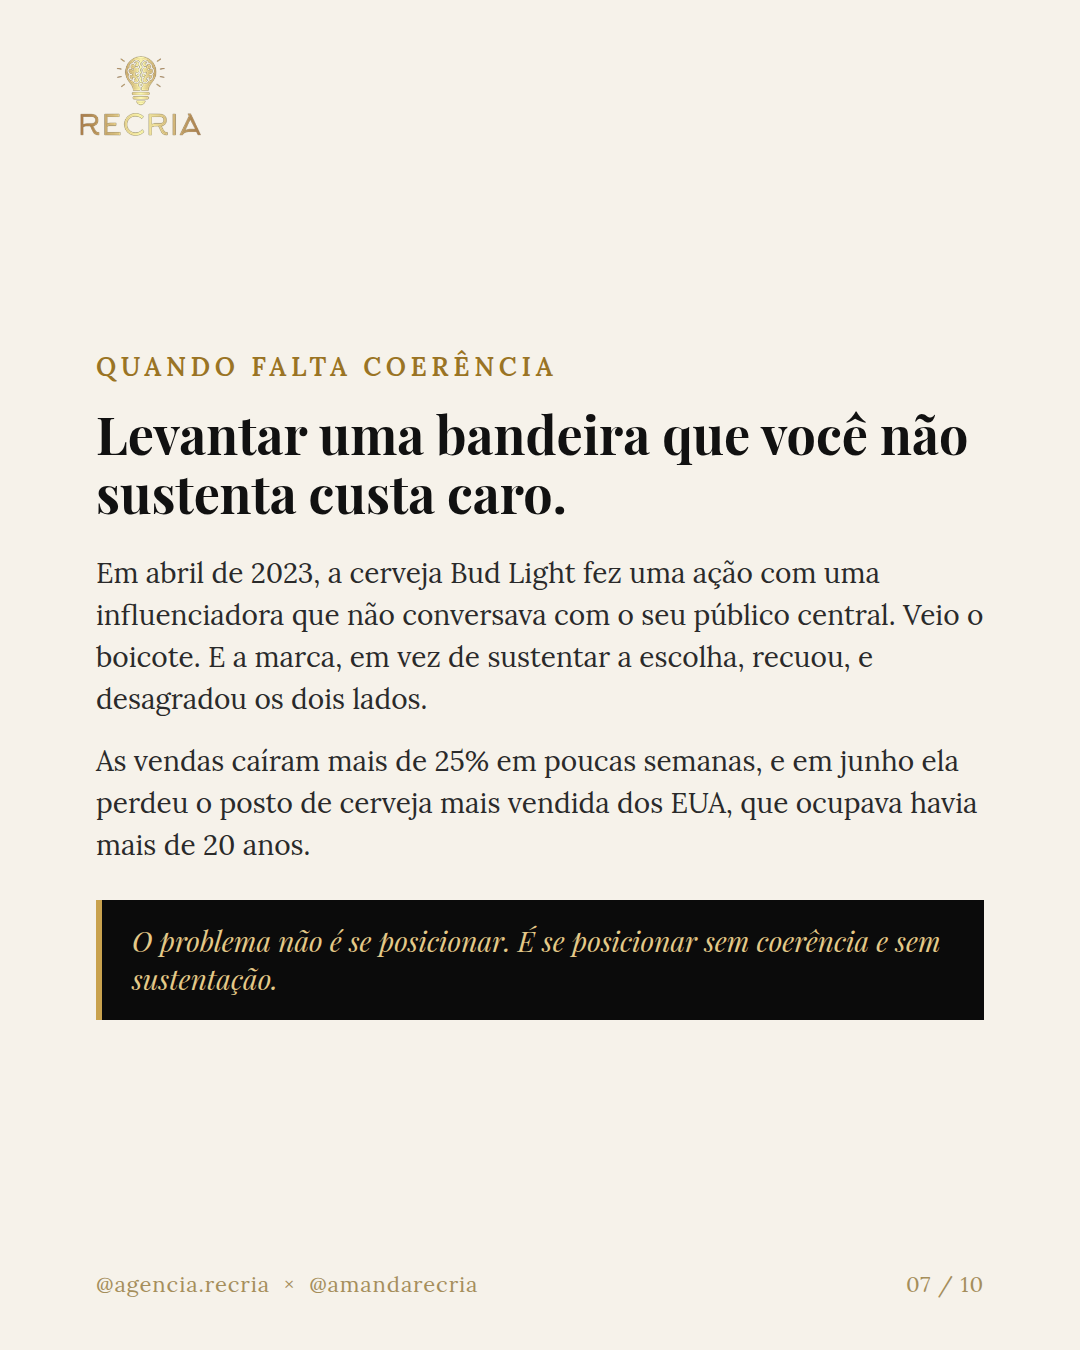
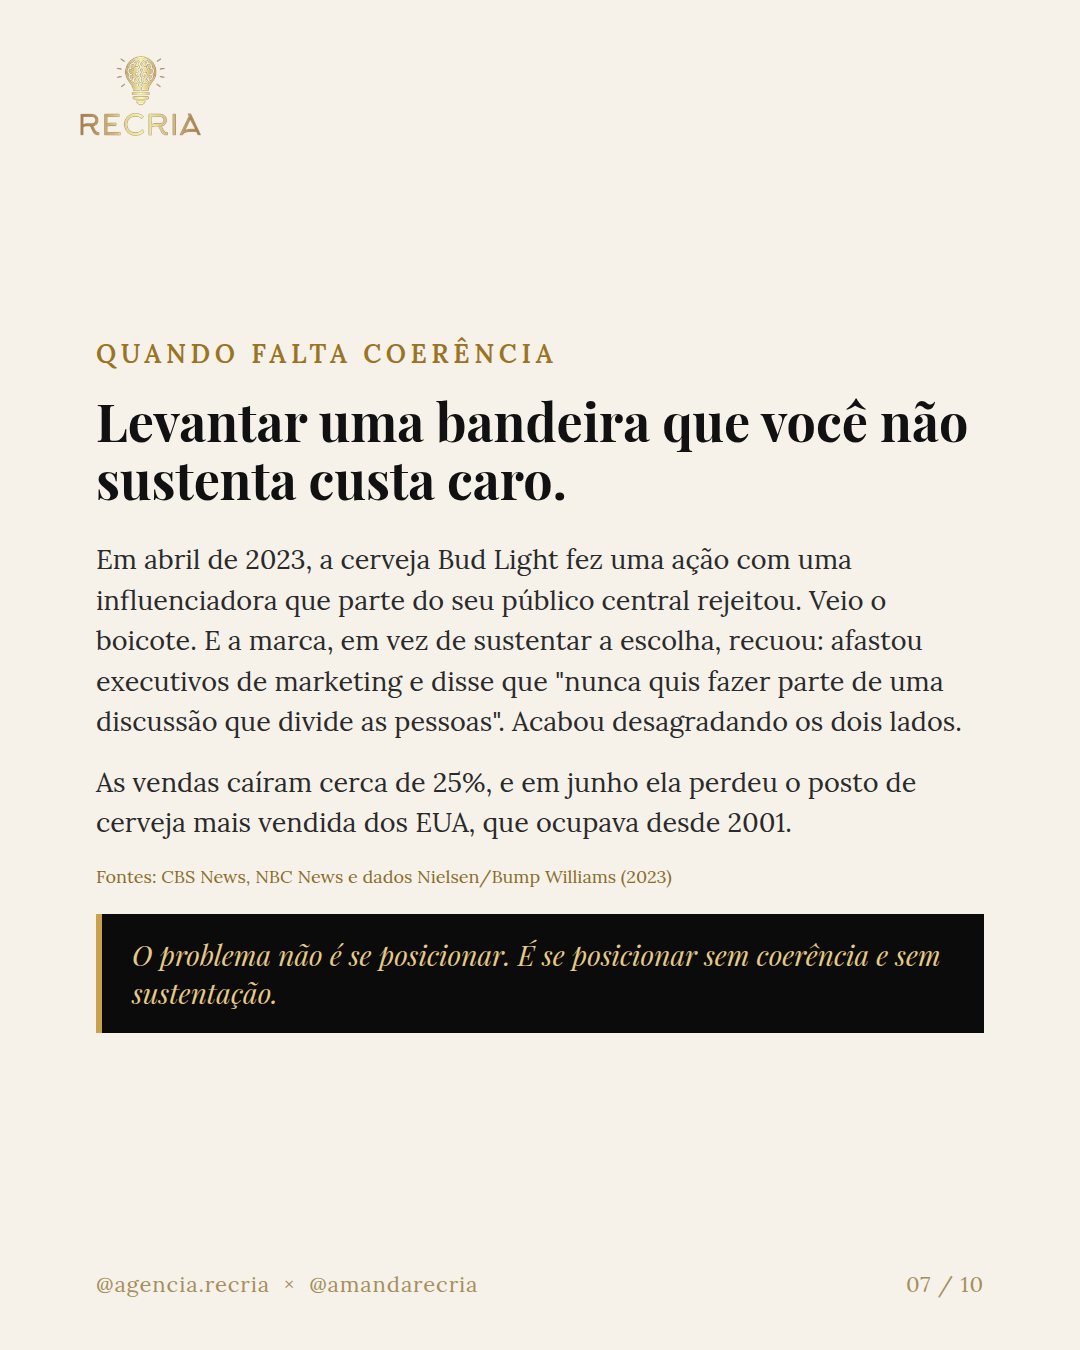
Carrossel 28/10: card 7 (Bud Light) com dados verificados e fontes
Claude-Session: https://claude.ai/code/session_01RDM8d5cVD9w4uwiMSyLkgt

Changed region(s): [[0.0917, 0.2489, 0.9167, 0.7778]]

diff --git a/agencia-recria/social-media/2026-10-28_carrossel-boticario/build_cards.py b/agencia-recria/social-media/2026-10-28_carrossel-boticario/build_cards.py
@@ -112,8 +112,9 @@ cards.append(page('dark', '''
 cards.append(page('light', '''
 <div class="kick">Quando falta coerência</div>
 <h1 style="font-size:52px">Levantar uma bandeira que você não sustenta custa caro.</h1>
-<p style="font-size:28px">Em abril de 2023, a cerveja Bud Light fez uma ação com uma influenciadora que não conversava com o seu público central. Veio o boicote. E a marca, em vez de sustentar a escolha, recuou, e desagradou os dois lados.</p>
-<p style="font-size:28px">As vendas caíram mais de 25% em poucas semanas, e em junho ela perdeu o posto de cerveja mais vendida dos EUA, que ocupava havia mais de 20 anos.</p>
+<p style="font-size:27px">Em abril de 2023, a cerveja Bud Light fez uma ação com uma influenciadora que parte do seu público central rejeitou. Veio o boicote. E a marca, em vez de sustentar a escolha, recuou: afastou executivos de marketing e disse que "nunca quis fazer parte de uma discussão que divide as pessoas". Acabou desagradando os dois lados.</p>
+<p style="font-size:27px">As vendas caíram cerca de 25%, e em junho ela perdeu o posto de cerveja mais vendida dos EUA, que ocupava desde 2001.</p>
+<p style="font-size:18px;color:#8a6d2c;margin-bottom:10px">Fontes: CBS News, NBC News e dados Nielsen/Bump Williams (2023)</p>
 <div class="next" style="font-size:28px">O problema não é se posicionar. É se posicionar sem coerência e sem sustentação.</div>''', 7))
 
 cards.append(page('dark', '''

diff --git a/agencia-recria/calendario-out-dez-2026.md b/agencia-recria/calendario-out-dez-2026.md
@@ -36,7 +36,7 @@
 ## Dados para você conferir antes de publicar
 - **Minidramas (carrossel 6):** Comfort × Bridgerton (70 mi views, +18% de participação de mercado), San Pellegrino (780 mi impressões), Crocs (20 mi views). Vieram da referência da vinci.society, e eu não consegui confirmar na fonte original.
 - **Liquid Death (carrossel 7):** vendas de US$ 2,8 mi para US$ 333 mi e US$ 1,6 mi captados. Vêm do vídeo do Gabriel Leopoldo e do resumo de IA do Google.
-- **Bud Light (carrossel 4):** queda de cerca de 25% nas vendas em 2023 e perda do posto de mais vendida nos EUA, conforme reportado na época.
+- **Bud Light (carrossel 4):** ✅ verificado. Abril de 2023, ação com Dylan Mulvaney; queda de ~24,5% nas vendas (Nielsen/Bump Williams, 4 semanas até 03/06/2023); Modelo Especial passou a Bud Light, líder desde 2001; CEO Brendan Whitworth: "nunca quisemos fazer parte de uma discussão que divide as pessoas"; executivos de marketing afastados. Fontes: CBS News, NBC News, Rolling Stone.
 - **Carrossel 8:** tirei o dado dos "65% a menos de diversidade nos roteiros", porque não achei o estudo. No lugar entrou a reportagem de 2024 sobre roteiros de streaming e o estudo do efeito Flynn reverso (PNAS, 2018).
 
 ## Padrões de produção definidos
